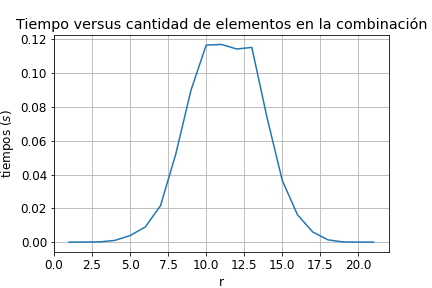
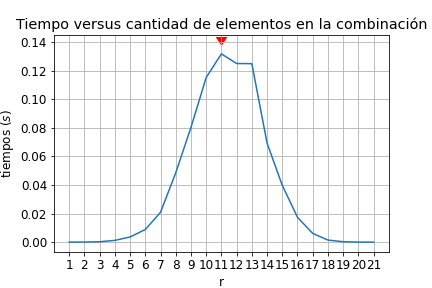
Se añade marcador al gráfico.

Changed region(s): [[0.0301, 0.125, 0.9028, 0.9375]]

diff --git a/02_Graficacion_y_medicion_de_tiempos_Ejemplo-1_Combinaiones/main.py b/02_Graficacion_y_medicion_de_tiempos_Ejemplo-1_Combinaiones/main.py
@@ -36,6 +36,15 @@ plt.plot(rs, tiempos)
 plt.title('Tiempo versus cantidad de elementos en la combinación')
 plt.xlabel('r')
 plt.ylabel('tiempos ($s$)')
+axes = plt.gca() # se obtienen los ejes actuales
+axes.set_xticks([tick for tick in range(1, n+1)])
+
+# Marcador
+t_max = max(tiempos)
+pos_r_max = tiempos.index(t_max) # no es la forma más eficiente
+plt.scatter(rs[pos_r_max], 1.05*t_max, color='r', marker=7, s=100)
+
+# print(r_max, t_max)
 
 # modificar fuente
 # fuente = {'family': 'normal',  'weight': 'bold',  'size': 20}
